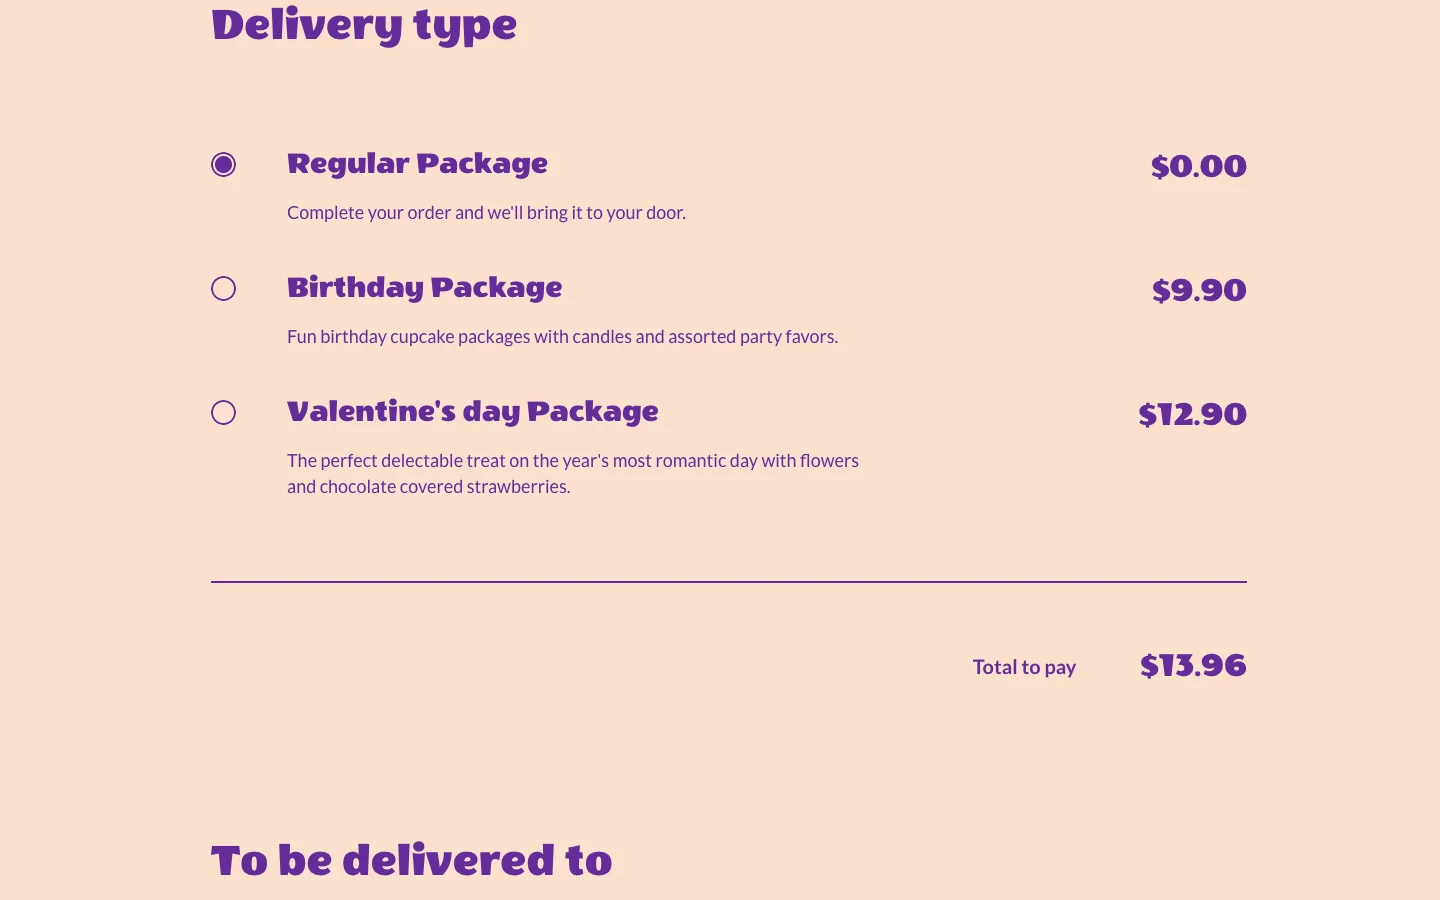
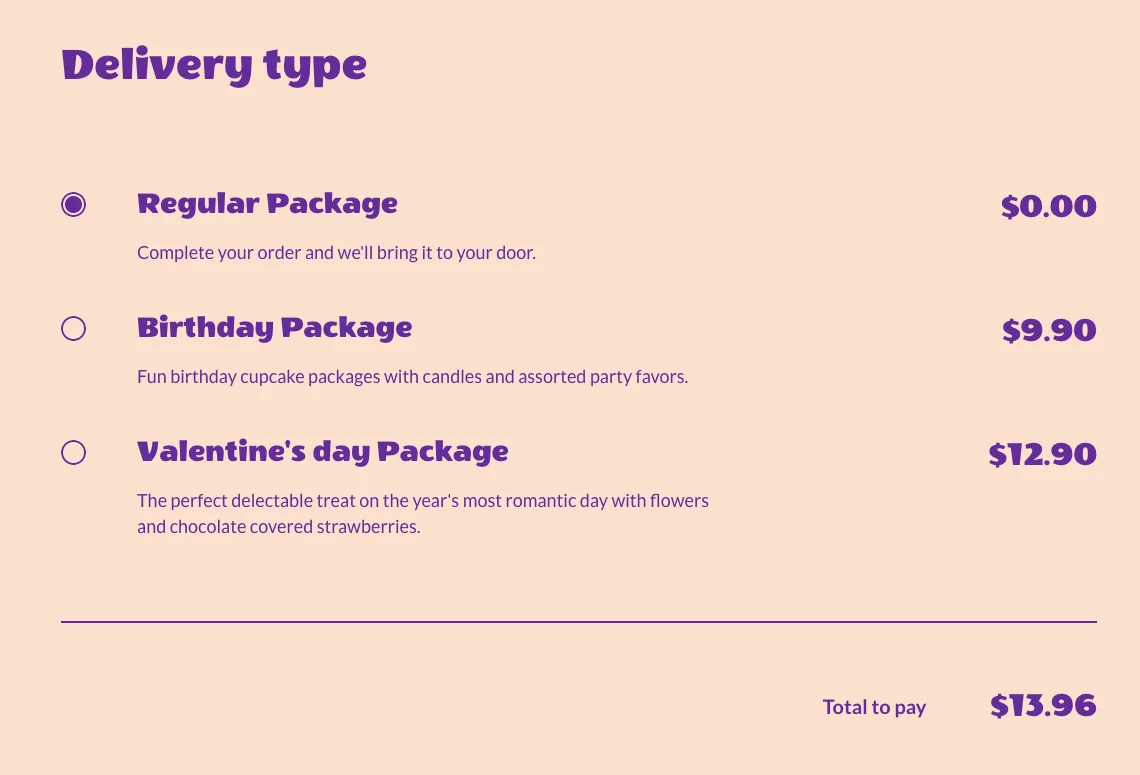
fix(7.0): review fixes - og tags, appHref edge cases, per-job permissions, routes read from App.tsx, README and credit wording

diff --git a/src/routing/appHref.ts b/src/routing/appHref.ts
@@ -1,13 +1,15 @@
 /**
  * Plain `<a href>` links in the app are written as site paths ("/our-story", "/#cupcakes"). When the site is
- * served from a sub-path (GitHub Pages: "/miss-cupcake/") this puts the base in front, and ends the path with
- * a slash: there every route is a folder, and without the slash the host answers with a redirect first. With
- * base "/" nothing changes. Anchors ("#cupcakes") and other sites ("https://...") are left alone. Links that
- * go through React Router (`<Link>`, `<Navigate>`) already know the base from the router's `basename`.
+ * served from a sub-path (GitHub Pages: "/miss-cupcake/") this puts the base in front, and ends a page path
+ * with a slash: there every route is a folder, and without the slash the host answers with a redirect first.
+ * With base "/" nothing changes. Anchors ("#cupcakes"), other sites ("https://...", "//cdn...", "mailto:")
+ * and paths to files ("/menu.pdf", no slash added) are handled as described. Links that go through React
+ * Router (`<Link>`, `<Navigate>`) already know the base from the router's `basename`.
  */
 export function appHref(href: string, base: string = import.meta.env.BASE_URL): string {
-  if (!href.startsWith('/')) return href
+  if (!href.startsWith('/') || href.startsWith('//')) return href
   const subPath = base !== '/'
   const [, path, rest = ''] = href.match(/^([^#?]*)(.*)$/) ?? []
-  return base.replace(/\/$/, '') + (subPath && !path.endsWith('/') ? `${path}/` : path) + rest
+  const isFile = /\.[a-z0-9]+$/i.test(path)
+  return base.replace(/\/$/, '') + (subPath && !isFile && !path.endsWith('/') ? `${path}/` : path) + rest
 }

diff --git a/index.html b/index.html
@@ -4,6 +4,18 @@
     <meta charset="UTF-8" />
     <meta name="viewport" content="width=device-width, initial-scale=1.0" />
     <meta name="theme-color" content="#642c99" />
+    <!-- Link previews (Slack, LinkedIn, ...) do not run JS, so these are static. Title and description of each
+         page are rendered by React (PageMeta); index.html has no <title>, a second one would be invalid. -->
+    <meta property="og:type" content="website" />
+    <meta property="og:site_name" content="Miss Cupcake" />
+    <meta property="og:title" content="Miss Cupcake" />
+    <meta property="og:description" content="Fresh cupcakes baked every day. Pick your flavours, add them to your bag and check out." />
+    <meta property="og:url" content="https://kotkoa.github.io/miss-cupcake/" />
+    <meta property="og:image" content="https://kotkoa.github.io/miss-cupcake/og-image.jpg" />
+    <meta property="og:image:width" content="1200" />
+    <meta property="og:image:height" content="630" />
+    <meta property="og:image:alt" content="Three cupcakes floating above the words Miss cupcake on a pink background" />
+    <meta name="twitter:card" content="summary_large_image" />
     <link rel="icon" type="image/x-icon" sizes="32x32" href="/favicon.ico" />
     <link rel="icon" type="image/svg+xml" href="/favicon.svg" />
     <link rel="apple-touch-icon" sizes="180x180" href="/apple-touch-icon.png" />

diff --git a/src/routing/appHref.test.ts b/src/routing/appHref.test.ts
@@ -15,7 +15,15 @@ describe('appHref', () => {
     expect(appHref('/', '/miss-cupcake/')).toBe('/miss-cupcake/')
   })
 
+  it('keeps query strings and existing slashes, and does not add a slash to a file', () => {
+    expect(appHref('/?a=1', '/miss-cupcake/')).toBe('/miss-cupcake/?a=1')
+    expect(appHref('/our-story/', '/miss-cupcake/')).toBe('/miss-cupcake/our-story/')
+    expect(appHref('/files/menu.pdf', '/miss-cupcake/')).toBe('/miss-cupcake/files/menu.pdf')
+  })
+
   it('does not touch anchors or other sites', () => {
+    expect(appHref('//cdn.example.com/x', '/miss-cupcake/')).toBe('//cdn.example.com/x')
+    expect(appHref('mailto:a@example.com', '/miss-cupcake/')).toBe('mailto:a@example.com')
     expect(appHref('#cupcakes', '/miss-cupcake/')).toBe('#cupcakes')
     expect(appHref('https://example.com/a', '/miss-cupcake/')).toBe('https://example.com/a')
   })

diff --git a/vite.config.ts b/vite.config.ts
@@ -4,7 +4,4 @@ import { defineConfig } from 'vitest/config'
 // https://vite.dev/config/
 export default defineConfig({
   plugins: [react()],
-  // GitHub Pages serves the site from /miss-cupcake/; its workflow sets BASE_PATH. Locally and on a root
-  // domain (Vercel) the base stays "/".
-  base: process.env.BASE_PATH ?? '/',
 })

diff --git a/README.md b/README.md
@@ -11,11 +11,11 @@ A cupcake shop website built from a Figma design: browse the cupcakes, fill a ba
 ## What you can do here
 
 - Browse eleven cupcakes and pick how many you want of each.
-- Add them to your bag. The bag remembers what you chose, even if you close the page.
-- Check out: change the amounts, pick a delivery type, fill in your details and place the order. This is a demo. There is no real payment and nothing you type is sent anywhere.
-- Read the story of the bakery, watch a short video and find the store on a map. The interactive map only loads when you ask for it.
+- Add them to your bag. The bag remembers which cupcakes and how many, even if you close the page.
+- Check out: change the amounts, pick a delivery type, fill in your details and place the order. This is a demo. There is no real payment and nothing you type is sent anywhere. Your name and address stay in your browser tab while you check out (card details are never kept) and disappear when you close it.
+- Read the story of the bakery, watch a short video and find the store on a map. The page shows a picture of the map first; the interactive Google map loads only when you press the button.
 - Sign up for the newsletter in the footer. Again, nothing is sent: the site only remembers that you signed up.
-- Use it on a phone, a tablet or a computer. It also works with a keyboard alone, and it is built to work with screen readers.
+- Use it on a phone, a tablet or a computer. It also works with a keyboard alone, and it is built with screen readers in mind (checked with automated audits, not yet with a screen reader by ear).
 
 ## Screenshots
 
@@ -34,13 +34,15 @@ Each choice below was made on purpose; the step-by-step plan and the decisions a
 - **React + Vite + TypeScript**: a fast setup, and the types catch mistakes before the browser does.
 - **React Router**: separate pages with real addresses, so every page can be opened and shared directly.
 - **CSS Modules with design tokens**: every colour, font size and spacing comes from the Figma file and lives in one place (`src/styles/tokens.css`), so the page matches the design and stays easy to change.
-- **Jotai**: a small state library for the bag. Only the cupcake and its quantity are saved, never prices or names.
+- **Jotai**: a small state library for the bag. The bag saves only the cupcake and its quantity, never prices or names.
 - **Plain TypeScript form checks**: the checkout form is validated with small, tested functions instead of a form library, to keep the logic visible.
 - **Vitest**: unit tests for the bag, the form rules and the other logic.
 - **Accessibility and speed**: checked with axe and Lighthouse; the reports are in [`tasks/06.4-accessibility.md`](tasks/06.4-accessibility.md) and [`tasks/06.5-lighthouse.md`](tasks/06.5-lighthouse.md).
 - **GitHub Pages + GitHub Actions**: every push to `main` runs the linter and the tests, builds the site and publishes it. If a test fails, nothing is published.
 
 ## Run it locally
+
+You need Node 22 and Yarn 1.
 
 ```bash
 git clone https://github.com/Kotkoa/miss-cupcake.git
@@ -51,11 +53,11 @@ yarn test     # unit tests
 yarn build    # production build
 ```
 
-`yarn build:pages` makes the build that is published: it serves the site from `/miss-cupcake/` and adds a folder per page, because GitHub Pages cannot rewrite addresses.
+`yarn build:pages` makes the build that is published: it serves the site from `/miss-cupcake/` and adds a folder per page, because GitHub Pages cannot rewrite addresses. To look at that build, run `yarn preview --base=/miss-cupcake/` and open http://localhost:4173/miss-cupcake/.
 
 ## Credits
 
-- **Design:** the Figma file is a copy of an existing prototype ("Miss Cupcake Prototype"). The file does not name the original designer, so there is nobody to credit by name here.
+- **Design and pictures:** the design and the cupcake pictures come from a Figma file that is a copy of an existing prototype ("Miss Cupcake Prototype"). The copy does not say who made it, and I could not find the source, so I cannot credit the designer by name. They are the original author's work, not mine, and no licence in this repository covers them. If you made them and want a credit or a removal, please open an issue.
 - **Video:** "Cupcake, Cake, Food" by AmatusSamiTahera on [Pixabay](https://pixabay.com/videos/cupcake-cake-food-dessert-102743/) (Pixabay Content License).
 - **Map:** © [OpenStreetMap contributors](https://www.openstreetmap.org/copyright), data under the ODbL. Details in [`CREDITS.md`](CREDITS.md).
 - **Fonts:** [Wendy One](https://fonts.google.com/specimen/Wendy+One) and [Lato](https://fonts.google.com/specimen/Lato), served by [Fontsource](https://fontsource.org/).

diff --git a/CLAUDE.md b/CLAUDE.md
@@ -64,7 +64,7 @@ Goal: refresh layout skills from scratch. Static markup first; cart/payment logi
 - [x] Payment confirmed ([tasks/05.6-payment-confirmed.md](tasks/05.6-payment-confirmed.md))
 
 ### 6. States and polish
-- [ ] Clean-up from the 5.x code review ([tasks/06.0-review-cleanup.md](tasks/06.0-review-cleanup.md))
+- [x] Clean-up from the 5.x code review ([tasks/06.0-review-cleanup.md](tasks/06.0-review-cleanup.md))
 - [x] Registered completed state: newsletter banner ([tasks/06.1-registered-banner.md](tasks/06.1-registered-banner.md))
 - [x] Hover and focus states ([tasks/06.2-hover-focus.md](tasks/06.2-hover-focus.md))
 - [x] Form errors ([tasks/06.3-form-errors.md](tasks/06.3-form-errors.md))

diff --git a/CREDITS.md b/CREDITS.md
@@ -1,5 +1,9 @@
 # Credits
 
+## Design and pictures
+
+- The layout, colours, type scale and the cupcake and decoration pictures come from the Figma file "Miss Cupcake Prototype (Copy)", a copy of an existing prototype. The copy does not name the original author or a licence, and the source was not found. Not covered by any code licence of this repository; credit or removal on request (open an issue).
+
 ## Video: `public/media/our-story.mp4`
 
 - "Cupcake, Cake, Food" by AmatusSamiTahera, Pixabay: https://pixabay.com/videos/cupcake-cake-food-dessert-102743/
